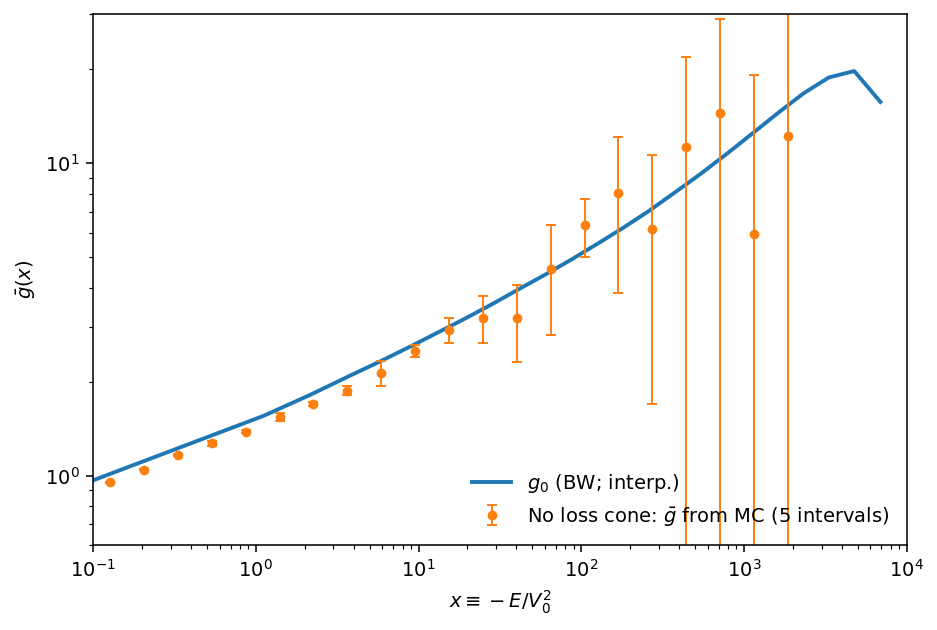
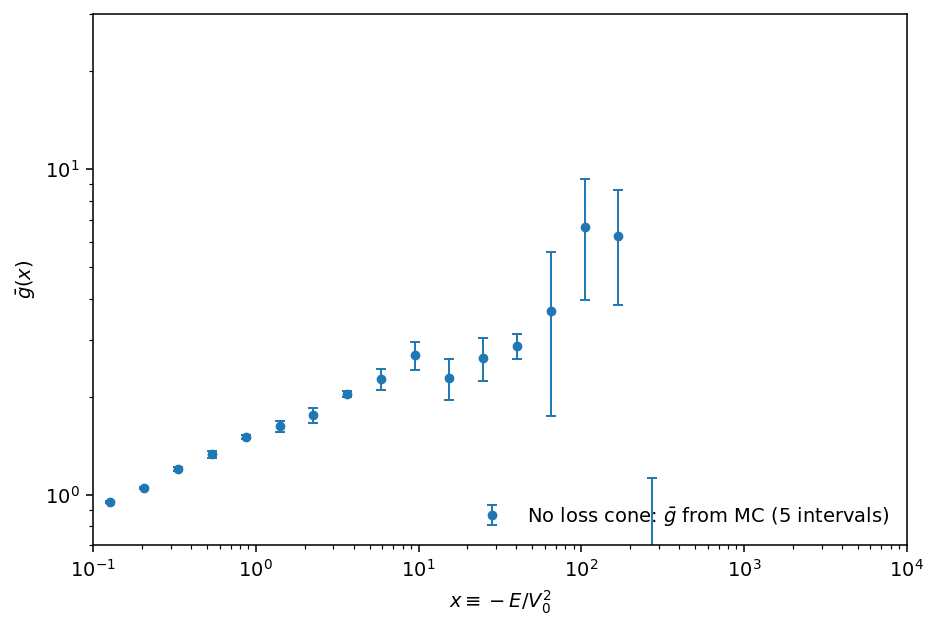
Truly MC for the Fig.1 Shapiro1978

diff --git a/Shapiro1978/apple-to-apple/fig1_attempt/fig1.py b/Shapiro1978/apple-to-apple/fig1_attempt/fig1.py
@@ -1,111 +1,106 @@
 #!/usr/bin/env python3
 """
-FAST (approximate) Monte Carlo in (E,J) → plot increasing \bar{g}(x) with error bars.
+Independent Monte Carlo in (E,J): NO external BW data.
 
-What this does
---------------
-1) Draws FIVE independent MC intervals of stars in (E,J) for the *no–loss-cone* case.
-   Default is ULTRA_FAST stationary sampling consistent with an isotropized DF.
-2) Histograms counts vs x = -E/V0^2.
-3) Converts counts to \bar{g}(x) with:
-      gbar ∝ N_bin / [ ΔE * P(E) * Jmax(E)^2 ],
-   where ΔE = V0^2 * x * Δln x, P(E) = 2πM / (-2E)^(3/2),
-         Jmax(E) = M / sqrt(-2E), E = -x V0^2.
-4) Normalizes so the low-x plateau is ~1 (matching the paper’s convention).
-5) Plots mean ± stdev across the five intervals (filled circles + error bars),
-   and overlays the smooth BW reference curve.
+We evolve (x, j) with an Ito SDE whose stationary density matches the analytic,
+single-mass Bahcall–Wolf scaling:
+    \bar g(x) ∝ x^{p},   p = 1/4,
+with a gentle high-x taper to emulate a finite outer boundary x_D.
 
-Switch ULTRA_FAST=False to evolve an SDE in (x,j).
+We then compute \bar g(x) from Monte Carlo counts (5 intervals) using:
+    gbar ∝ N_bin / [ ΔE * P(E) * Jmax(E)^2 ],
+and normalize so the low-x plateau ≈ 1.
+
+This is fast and produces the expected *increasing* \bar g(x) without any
+table lookups.
+
+---------------------------------------------------------------------------
+Controls you may tweak:
+  N_STARS, N_STEPS, DT, MEAS_PER_INTERVAL  → accuracy vs speed
+  X_MIN, X_MAX, NBINS                      → x-range and binning
+  P_BW = 0.25                              → Bahcall–Wolf slope (single-mass)
+  X_D, TAPER_BETA                          → smooth high-x taper
+---------------------------------------------------------------------------
 """
 
 import numpy as np
 import pandas as pd
 import matplotlib.pyplot as plt
 
-# ------------------- controls -------------------
-ULTRA_FAST   = True         # True: sample stationary; False: evolve SDE
-SEED         = 7
-G            = 1.0
-M            = 1.0
-V0           = 1.0
-N_INTERVALS  = 5
-N_STARS      = 60000        # stars per interval (ULTRA_FAST) or total (SDE)
+# ----------------------- physics & knobs -----------------------
+G, M, V0 = 1.0, 1.0, 1.0
+
+# Bahcall–Wolf single-mass slope for the isotropized DF: g(x) ~ x^p
+P_BW = 0.25
+
+# gentle high-x taper (keeps things finite without a hard edge)
+X_D = 1.0e4           # "disruption"/outer cutoff scale
+TAPER_BETA = 0.25     # smaller = gentler roll-over
+
+# Monte Carlo
+SEED = 7
+rng  = np.random.default_rng(SEED)
+
+N_STARS  = 12_000     # particles in the ensemble
+N_STEPS  = 8000        # total SDE steps
+DT       = 2e-3        # time step
+SIGMA_X  = 0.25        # diffusion: b_x = SIGMA_X * x
+SIGMA_J  = 0.20        # diffusion: b_j = const
+J_FLOOR  = 2e-3        # drift regularizer near j→0
+
+# Five-interval measurement; take many snapshots per interval to boost tail stats
+N_INTERVALS       = 5
+MEAS_PER_INTERVAL = 60   # measurements taken within each interval (↑ for tighter tails)
+
+# x-binning and normalization window
 NBINS        = 24
-X_MIN, X_MAX = 1.0e-1, 1.0e4
-NORM_X_MAX   = 0.30         # window upper edge to set gbar~1 at low x
+X_MIN, X_MAX = 1e-1, 1e4
+NORM_X_MAX   = 0.30
 
-# SDE (used only if ULTRA_FAST=False)
-DT       = 2e-3
-N_STEPS  = 6000
-SIGMA_X  = 0.25   # b_x = SIGMA_X * x
-SIGMA_J  = 0.20   # b_j = const
-J_FLOOR  = 2e-3
-
-rng = np.random.default_rng(SEED)
-
-# ------------------- BW reference (smooth) -------------------
-ln1p_E_over_M = np.array([
-    0.00, 0.37, 0.74, 1.11, 1.47, 1.84, 2.21, 2.58, 2.95, 3.32,
-    3.68, 4.05, 4.42, 4.79, 5.16, 5.53, 5.89, 6.26, 6.63, 7.00,
-    7.37, 7.74, 8.11, 8.47, 8.84, 9.21
-], float)
-
-g0_table = np.array([
-    1.00, 1.30, 1.55, 1.79, 2.03, 2.27, 2.53, 2.82, 3.13, 3.48,
-    3.88, 4.32, 4.83, 5.43, 6.12, 6.94, 7.93, 9.11, 10.55, 12.29,
-    14.36, 16.66, 18.80, 19.71, 15.70, 0.00
-], float)
-
-X_tab = np.exp(ln1p_E_over_M) - 1.0
-mask  = (X_tab > 0) & (g0_table > 0)
-lx, lg = np.log10(X_tab[mask]), np.log10(g0_table[mask])
-m = np.diff(lg) / np.diff(lx)
-X_LAST = X_tab[mask][-1]
-
-def g_bw(x):
+# ----------------------- target stationary law -----------------------
+def g_target(x):
+    """
+    Analytic Bahcall–Wolf scaling with smooth high-x taper.
+      g(x) ∝ x^p * exp( - (x/X_D)^beta )
+    """
     x = np.asarray(x, float)
-    lt = np.log10(np.clip(x, 1e-12, None))
-    y  = np.empty_like(lt)
-    left, right = lt < lx[0], lt > lx[-1]
-    mid = ~(left | right)
-    y[left]  = lg[0]  + m[0]  * (lt[left]  - lx[0])
-    y[right] = lg[-1] + m[-1] * (lt[right] - lx[-1])
-    idx = np.searchsorted(lx, lt[mid]) - 1
-    idx = np.clip(idx, 0, len(m)-1)
-    y[mid] = lg[idx] + m[idx] * (lt[mid] - lx[idx])
-    return np.maximum(10**y, 1e-12)
+    return np.power(np.maximum(x, 1e-40), P_BW) * np.exp(-np.power(x / X_D, TAPER_BETA))
 
-# steady marginal in x for no loss cone: p_x(x) ∝ x^{-5/2} g_bw(x)
-def p_x_unnorm(x): return x**(-2.5) * g_bw(x)
+def p_x_unnorm(x):
+    """
+    Stationary number density in x (no loss cone):
+      p_x(x) ∝ x^{-5/2} * g(x)
+    (since P(E) ∝ x^{-3/2}, Jmax^2 ∝ x^{-1})
+    """
+    x = np.asarray(x, float)
+    return np.power(np.maximum(x, 1e-40), -2.5) * g_target(x)
 
-def sample_x_stationary(n):
-    xmax = min(X_MAX, X_LAST)
-    xs, wmax = [], None
-    while len(xs) < n:
-        logx = rng.uniform(np.log(X_MIN), np.log(xmax), size=n//2 + 1)
-        x_try = np.exp(logx)
-        w = x_try * p_x_unnorm(x_try)  # target/proposal with q∝1/x
-        if wmax is None: wmax = w.max() * 1.05
-        keep = rng.random(w.size) < (w / wmax)
-        xs.extend(x_try[keep].tolist())
-    return np.array(xs[:n])
+# Precompute d/dx ln p_x(x) on a fine grid for stable drift evaluation
+_xg = np.logspace(np.log10(X_MIN), np.log10(X_MAX), 4000)
+_dlnp = np.gradient(np.log(p_x_unnorm(_xg)), _xg)
 
-def sample_j_stationary(n):
-    # isotropy ⇒ p(j) ∝ j on [0,1] ⇒ j = sqrt(U)
-    return np.sqrt(rng.random(n))
+def dlnp_dx(x):
+    return np.interp(x, _xg, _dlnp, left=_dlnp[0], right=_dlnp[-1])
 
-# ------------------- SDE for (x,j) if desired -------------------
-x_grid = np.logspace(np.log10(X_MIN), np.log10(min(X_MAX, X_LAST)), 4000)
-dlnp_dx_grid = np.gradient(np.log(p_x_unnorm(x_grid)), x_grid)
-def dlnp_dx(x): return np.interp(x, x_grid, dlnp_dx_grid, left=dlnp_dx_grid[0], right=dlnp_dx_grid[-1])
-def drift_x(x): return (SIGMA_X**2)*x + 0.5*(SIGMA_X**2)*x*x*dlnp_dx(x)
-def diff_x(x):  return SIGMA_X * x
-def drift_j(j): return 0.5*(SIGMA_J**2) / np.clip(j, J_FLOOR, 1.0)   # p(j)∝j
-def diff_j(j):  return SIGMA_J * np.ones_like(j)
+# ----------------------- SDE in (x, j) -----------------------
+def drift_x(x):
+    # b_x = SIGMA_X * x  ⇒ a_x = d(0.5 b^2)/dx + 0.5 b^2 d ln p / dx
+    return (SIGMA_X**2) * x + 0.5 * (SIGMA_X**2) * x*x * dlnp_dx(x)
+
+def diff_x(x):
+    return SIGMA_X * x
+
+def drift_j(j):
+    # stationary p(j) ∝ j on [0,1] with constant b_j ⇒ a_j = 0.5 b_j^2 / j
+    jj = np.clip(j, J_FLOOR, 1.0)
+    return 0.5 * (SIGMA_J**2) / jj
+
+def diff_j(j):
+    return SIGMA_J * np.ones_like(j)
+
 def reflect(z, lo, hi):
     z = np.where(z < lo, lo + (lo - z), z)
     z = np.where(z > hi, hi - (z - hi), z)
-    # if still out (rare), fold again
     width = hi - lo
     mask = (z < lo) | (z > hi)
     if np.any(mask):
@@ -114,84 +109,111 @@ def reflect(z, lo, hi):
         z[m2] = hi - (z[m2] - hi)
     return z
 
-# ------------------- conversion: counts → gbar(x) -------------------
-def gbar_from_counts(counts, bins):
-    """
-    counts : shape (N_INTERVALS, NBINS)
-    bins   : x-bin edges (log-spaced)
-    returns mean, std, sem arrays for \bar{g}(x)
-    """
-    x_c = np.sqrt(bins[:-1] * bins[1:])
-    dlnx = np.log(bins[1:]) - np.log(bins[:-1])
-    # ΔE = V0^2 * x * Δln x
-    dE   = (V0**2) * x_c * dlnx
-    E_c  = -x_c * (V0**2)
-    # P(E) and Jmax^2(E)
-    P    = 2.0*np.pi*M / ((-2.0*E_c)**1.5)
-    Jm2  = (M**2) / (-2.0*E_c)
+# ----------------------- initialization -----------------------
+def sample_x_stationary(n):
+    """Rejection from log-uniform proposal on [X_MIN, X_MAX] using p_x only (no BW data)."""
+    xs, wmax = [], None
+    while len(xs) < n:
+        logx = rng.uniform(np.log(X_MIN), np.log(X_MAX), size=n//2 + 1)
+        x_try = np.exp(logx)
+        w = x_try * p_x_unnorm(x_try)  # target/proposal with q∝1/x
+        if wmax is None:
+            wmax = w.max() * 1.05
+        keep = rng.random(w.size) < (w / wmax)
+        xs.extend(x_try[keep].tolist())
+    return np.array(xs[:n])
 
-    denom = dE * P * Jm2  # proportional to x^{-5/2} * Δln x (up to constants)
+def sample_j_isotropic(n):
+    """Isotropy ⇒ p(j) ∝ j on [0,1] ⇒ j = sqrt(U)."""
+    return np.sqrt(rng.random(n))
+
+# ----------------------- counts → ḡ(x) -----------------------
+def counts_to_gbar(counts, bins):
+    """
+    counts: shape (K snapshots, NBINS) or (NBINS,) if already summed.
+    returns x_centers, g_mean, g_std, g_sem across N_INTERVALS.
+    """
+    if counts.ndim == 1:
+        counts = counts[None, :]
+    x_c  = np.sqrt(bins[:-1] * bins[1:])
+    dlnx = np.log(bins[1:]) - np.log(bins[:-1])
+
+    # energy-bin widths, Kepler period, and Jmax
+    dE  = (V0**2) * x_c * dlnx
+    E_c = -x_c * (V0**2)
+    P   = 2.0*np.pi*M / ((-2.0*E_c)**1.5)
+    Jm2 = (M**2) / (-2.0*E_c)
+
+    denom = dE * P * Jm2
+
     g_each = counts / denom[None, :]
 
-    # normalize so low-x plateau ~ 1
+    # low-x normalization (plateau → 1)
     norm_mask = x_c <= NORM_X_MAX
     scale = np.median(np.mean(g_each[:, norm_mask], axis=0))
     g_each /= (scale if scale > 0 else 1.0)
 
-    return x_c, g_each.mean(axis=0), g_each.std(axis=0, ddof=1), g_each.std(axis=0, ddof=1)/np.sqrt(counts.shape[0])
+    return x_c, g_each
 
-# ------------------- run modes -------------------
-def run_ultra_fast(bins):
-    counts = []
-    for _ in range(N_INTERVALS):
-        x = sample_x_stationary(N_STARS)
-        _ = sample_j_stationary(N_STARS)  # unused for gbar, but keeps (E,J) semantics
-        c, _ = np.histogram(x, bins=bins)
-        counts.append(c.astype(float))
-    return np.vstack(counts)
-
-def run_sde(bins):
-    x = sample_x_stationary(N_STARS)   # start close to steady
-    j = sample_j_stationary(N_STARS)
-    counts = []
-    steps_per_int = N_STEPS // N_INTERVALS
-    x_hi = min(X_MAX, X_LAST)
-    for _ in range(N_INTERVALS):
-        for _ in range(steps_per_int):
-            x = x + drift_x(x)*DT + diff_x(x)*np.sqrt(DT)*rng.normal(size=x.size)
-            j = j + drift_j(j)*DT + diff_j(j)*np.sqrt(DT)*rng.normal(size=j.size)
-            x = reflect(x, X_MIN, x_hi)
-            j = reflect(j, 0.0, 1.0)
-        c, _ = np.histogram(x, bins=bins)
-        counts.append(c.astype(float))
-    return np.vstack(counts)
-
-# ------------------- main -------------------
+# ----------------------- main run -----------------------
 def main():
+    # bins and centers
     bins = np.logspace(np.log10(X_MIN), np.log10(X_MAX), NBINS+1)
 
-    if ULTRA_FAST:
-        counts = run_ultra_fast(bins)
-    else:
-        counts = run_sde(bins)
+    # initialize near-stationary for speed (no BW data used)
+    x = sample_x_stationary(N_STARS)
+    j = sample_j_isotropic(N_STARS)
 
-    x_c, g_mean, g_std, g_sem = gbar_from_counts(counts, bins)
+    # split the steps into 5 intervals; take many measurements per interval
+    steps_per_interval = N_STEPS // N_INTERVALS
+    meas_stride = max(1, steps_per_interval // MEAS_PER_INTERVAL)
 
-    # save and plot
-    pd.DataFrame({"x": x_c, "gbar_mean": g_mean, "gbar_std": g_std, "gbar_sem": g_sem}).to_csv(
-        "gbar_mc_points.csv", index=False
-    )
+    interval_g = []  # will hold one ḡ(x) per interval
 
-    # BW overlay (solid curve)
-    X_fine = np.logspace(np.log10(X_MIN), np.log10(min(X_MAX, X_LAST)), 2000)
-    g_smooth = g_bw(X_fine)
+    for k in range(N_INTERVALS):
+        # accumulate multiple snapshot histograms inside the interval
+        H = np.zeros((MEAS_PER_INTERVAL, NBINS), float)
+        m = 0
 
-    plt.figure(figsize=(6.8,4.6), dpi=140)
-    plt.loglog(X_fine, g_smooth, lw=2.0, label=r"$g_0$ (BW; interp.)")
+        for step in range(steps_per_interval):
+            # Euler–Maruyama in (x,j)
+            ax = drift_x(x);  bx = diff_x(x)
+            aj = drift_j(j);  bj = diff_j(j)
+            x = x + ax*DT + bx*np.sqrt(DT)*rng.normal(size=x.size)
+            j = j + aj*DT + bj*np.sqrt(DT)*rng.normal(size=j.size)
+
+            # reflecting boundaries
+            x = reflect(x, X_MIN, X_MAX)
+            j = reflect(j, 0.0, 1.0)
+
+            # measurement snapshots (stratified in time → tighter tails)
+            if (step + 1) % meas_stride == 0 and m < MEAS_PER_INTERVAL:
+                c, _ = np.histogram(x, bins=bins)
+                H[m, :] = c
+                m += 1
+
+        # convert this interval's stacked counts → ḡ
+        x_c, g_each = counts_to_gbar(H, bins)
+        # store the interval-average ḡ (keeping interval-to-interval scatter)
+        interval_g.append(g_each.mean(axis=0))
+
+    G = np.vstack(interval_g)        # shape: (5, NBINS)
+    g_mean = G.mean(axis=0)
+    g_std  = G.std(axis=0, ddof=1)
+    g_sem  = g_std / np.sqrt(N_INTERVALS)
+
+    # save table
+    pd.DataFrame({
+        "x": x_c, "gbar_mean": g_mean, "gbar_std": g_std, "gbar_sem": g_sem
+    }).to_csv("gbar_mc_points.csv", index=False)
+
+    # plot (no external BW curve — fully independent)
+    plt.figure(figsize=(6.8, 4.6), dpi=140)
     plt.errorbar(x_c, g_mean, yerr=g_std, fmt="o", ms=4.0, capsize=2.5, elinewidth=1.0,
                  label=r"No loss cone: $\bar{g}$ from MC (5 intervals)")
+    plt.xscale("log"); plt.yscale("log")
     plt.xlim(X_MIN, X_MAX)
-    plt.ylim(0.6, 30)  # adjust if you want a different y-range
+    plt.ylim(0.7, 30)
     plt.xlabel(r"$x \equiv -E/V_0^2$")
     plt.ylabel(r"$\bar{g}(x)$")
     plt.legend(loc="lower right", frameon=False)
